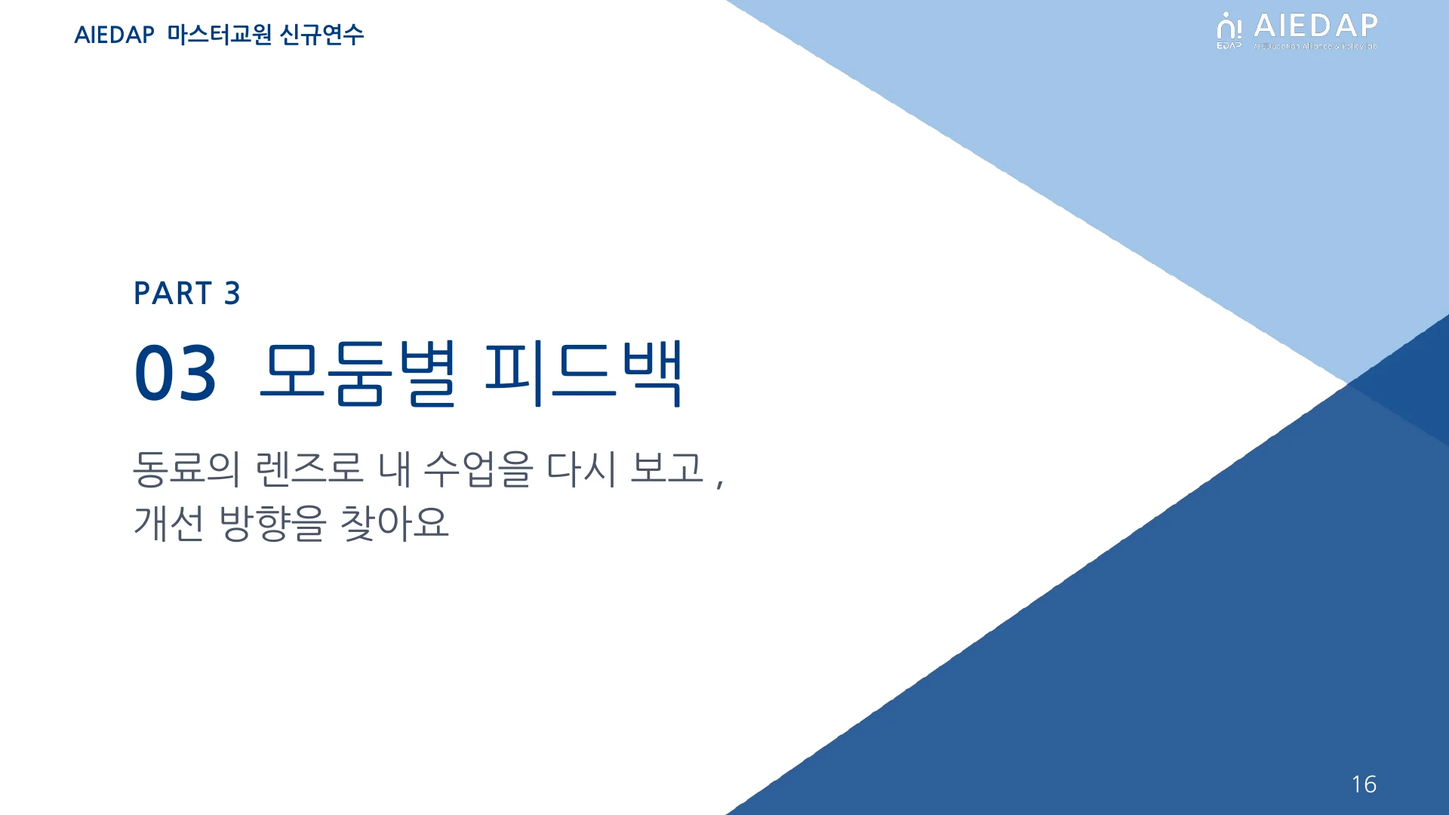
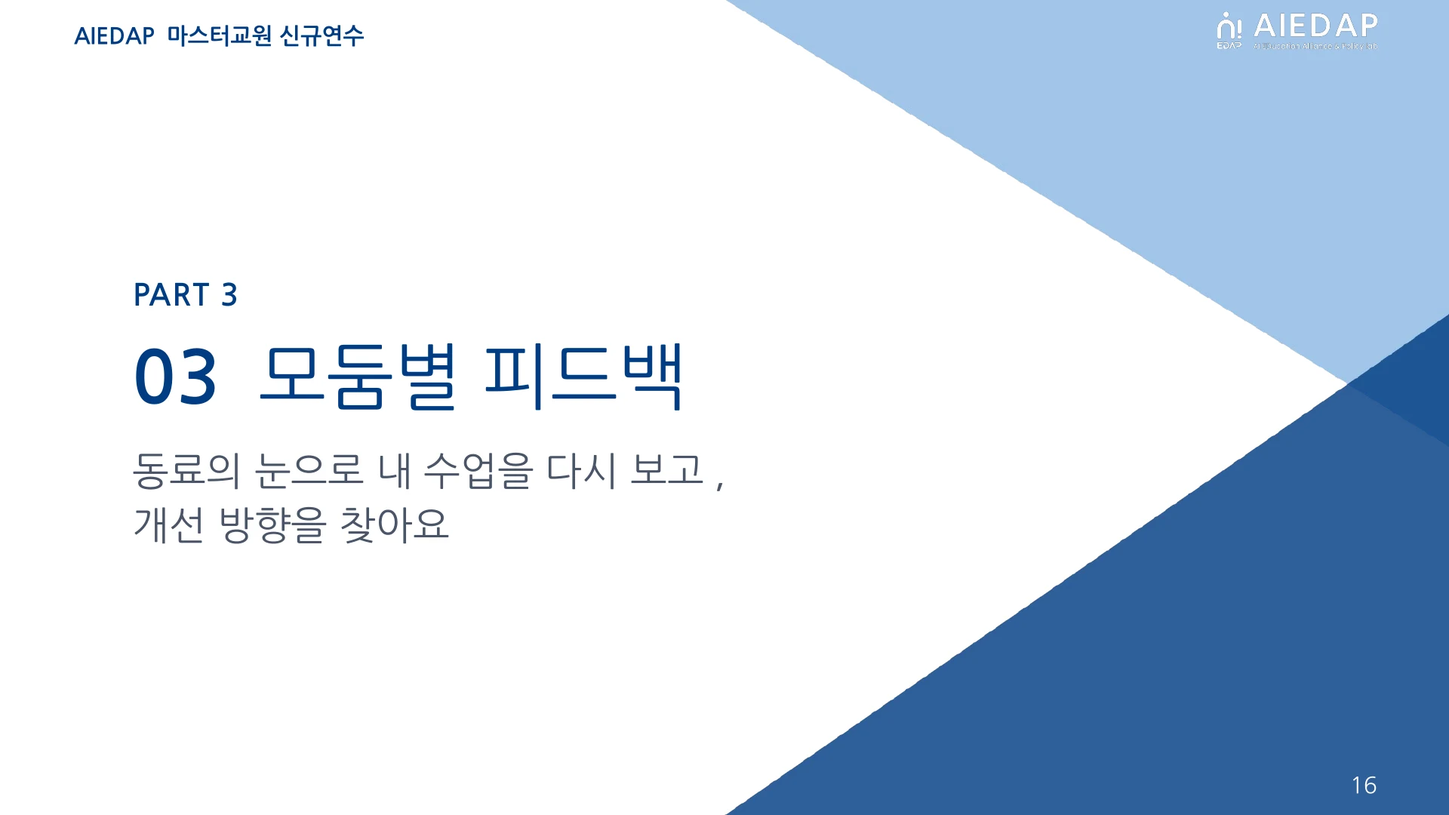
Add files via upload

diff --git a/index.html b/index.html
@@ -334,7 +334,7 @@ header h1{font-size:clamp(18px,2.2vw,22px);font-weight:700;letter-spacing:-.01em
 <script src="universe-client.js"></script>
 <script>
 const TOTAL = 24;
-const NOTES = {"4": {"title": "여는 질문", "html": "<p>내 교실 맨 앞자리에 챗GPT가 떡하니 앉아 있다고 생각해볼까요?</p><p><strong>&quot;챗GPT가 교실에 앉아 있습니다. 무엇을 가르치시겠습니까?&quot;</strong></p><p>실시간 채팅창에 선생님의 의견을 들려주세요. 정답을 찾는 질문이 아니라, 오늘 활동의 문을 여는 질문입니다.</p>"}, "5": {"title": "지금 우리가 하는 교육은 여전히 유효한가?", "html": "<p>지금 우리가 하는 교육은 여전히 유효할까요?</p><p>사진처럼 같은 책상에 앉아 같은 문제를 푸는 모습은 20세기 교육이 거둔 성공의 상징이었습니다.</p><p>그런데 정답을 빠르고 정확하게 찾는 능력은 이제 AI가 가장 잘하는 일이 되었습니다. 그래서 20세기의 성공이 지금은 오히려 문제가 됩니다.</p><p><strong>우리가 AI 시대에 가장 빠르게 도태될 사람을 길러 온 것은 아닌지</strong>, 뼈아프지만 돌아볼 때입니다.</p>"}, "6": {"title": "수업을 바라보는 질문이 바뀝니다", "html": "<p>그렇다면 수업을 바라보는 질문도 달라져야 합니다.</p><p>&#x27;무엇을 알고 있는가&#x27;는 &#x27;<strong>너만의 독창성은 무엇인가</strong>&#x27;로, &#x27;결과물이 완성되었는가&#x27;는 &#x27;<strong>과정과 근거가 보이는가</strong>&#x27;로, &#x27;디지털 도구를 사용할 수 있는가&#x27;를 넘어, 이제는 &#x27;<strong>AI와 함께 협업하여 무엇을 할 것인가</strong>&#x27;를 물어야 합니다.</p><p>AI로 격변하는 시대, 우리 수업이 확인해야 할 것도 함께 옮겨 가고 있습니다.</p>"}, "7": {"title": "그래서 필요한 자세", "html": "<p>특정 지식이나 도구보다 더 중요한 것은 &#x27;자세&#x27;입니다.</p><p><strong>어떤 시대가 오더라도 새로운</strong> <strong>지식을 배우는 것을 기꺼이 즐기는 사람</strong>,</p><p>그리고 <strong>자신이 가진 지식과 정보를 나누고 확장하며 사회와 연대</strong>하는 사람입니다.</p><p>이는 우리가 길러야 할 학생의 모습이자, 바로 우리 교사에게 필요한 모습이기도 합니다.</p>"}, "8": {"title": "좋은 AI 융합수업은 혼자 완성되지 않습니다", "html": "<p><strong>좋은 AI 융합수업은 혼자 완성되지 않습니다.</strong></p><p>좋은 수업은 교사 한 사람의 눈만으로는 다 보기 어렵기 때문입니다.</p><p>그래서 오늘은 서로의 수업을 함께 들여다보겠습니다.</p>"}, "9": {"title": "학습 목표", "html": "<p>이번 연수의 학습 목표는 세 가지입니다.</p><p>첫째, <strong>내 수업 사례와 도움받고 싶은 질문을 동료에게 공유하는 것</strong>입니다</p><p>둘째, <strong>동료 수업의 강점과 고려할 점을 근거와 함께 나누는 것</strong>입니다.</p><p>셋째, <strong>협의를 바탕으로 내 수업의 개선 방향 3가지를 정하는 것</strong>입니다.</p><p>오늘 손에 쥐고 가실 최종 산출물이 바로 이 &#x27;개선 방향 3가지&#x27;이며, 실천 및 성찰 보고서와 이후 Re-design 모듈로 이어집니다.</p>"}, "11": {"title": "PART 2 · 사례 공유하기", "html": "<p>이제 AIEDAP 홈페이지의 공유마당에 내 수업을 올리고, 우리 모둠원들의 수업안을 내려받겠습니다.</p><p>동료의 수업안을 미리 가지고 있어야 모둠 피드백 시간이 훨씬 깊어집니다.</p>"}, "12": {"title": "공유 전, 두 가지를 확인해요", "html": "<p>첫째는 <strong>학생 정보 비식별 처리</strong>입니다. 학생 이름이나 사진, 장애 관련 정보가 지도안에 남아 있지 않은지 반드시 확인해 주시기 바랍니다.</p><p>둘째는 <strong>모든 항목 입력</strong>입니다. 모든 내용이 입력되어 있어야 공유마당에 공유됩니다.</p>"}, "13": {"title": "STEP 1 · 나의 수업 보관함에서 시작해요", "html": "<p>먼저 AIEDAP 홈페이지에 접속합니다.</p><p>왼쪽 메뉴에서 &#x27;<strong>나의 수업 보관함</strong>&#x27;을 열어 주시기 바랍니다.</p>"}, "14": {"title": "STEP 2 · 공유마당에 공유하기", "html": "<p>수업안 상세 화면으로 들어가 아래쪽으로 내려가시면 <strong>&#x27;공유마당에 공유하기&#x27;</strong> 버튼이 있습니다.</p><p>이 버튼을 누르시면 내 수업이 공유마당에 올라갑니다.</p>"}, "15": {"title": "STEP 3 · 모둠원 수업안 내려받기", "html": "<p>공유마당에서 내 자료가 잘 올라갔는지 먼저 확인해 주시기 바랍니다.</p><p>그다음 <strong>모둠원의 이름이나 수업명으로 검색</strong>해서, 모둠원들의 지도안을 모두 내려받아 주십시오.</p>"}, "16": {"title": "PART 3 · 모둠별 피드백", "html": "<p>이제 오늘의 하이라이트, 모둠별 피드백 시간입니다.</p><p>동료의 렌즈를 빌려 내 수업을 다시 보고, 개선 방향을 찾아가 보겠습니다.</p>"}, "17": {"title": "모둠별 사이트로 이동해요", "html": "<p><strong>연수 사이트 메인 화면에서 모둠별 활동 사이트로 이동합니다.</strong></p><p>이동 전에 세 가지를 체크해 주십시오.</p><p><strong>내 수업안을 공유마당에 올렸는지</strong>, <strong>모둠원 수업안을 전부 내려받았는지</strong>, <strong>연수 사이트에서 우리 모둠 페이지를 열었는지</strong>입니다.</p><p>퍼실리테이터 선생님께서는 모든 모둠원이 준비되었는지 확인해 주시고, 아직인 분이 계시면 다운로드를 함께 도와주시기 바랍니다.</p>"}, "18": {"title": "모둠 사이트의 내 페이지에 두 가지를 입력해요", "html": "<p>첫 번째는 <strong>내 수업 한 줄 소개</strong>입니다. 어떤 교과·학년에서 AI를 어떻게 활용했는지, 예를 들어 &quot;생성형 AI로 가설을 세우고 실험으로 검증한 수업&quot;처럼 한 줄로 써 주시면 됩니다.</p><p>두 번째는 <strong>도움받고 싶은 질문</strong>으로, 설계나 실행에서 실제로 고민했던 한 가지를 적습니다.</p>"}, "19": {"title": "내 수업 발표하기", "html": "<p>이제 한 사람씩 돌아가며 내 수업을 발표하겠습니다.</p><p>먼저 교과·학년, AI를 활용한 방식, 주요 활동 등 <strong>수업 개요</strong>를 소개해 주십시오. 이어서 학생 반응이 좋았던 <strong>잘 작동한 장면</strong> 하나를 들려주시기 바랍니다.</p><p>마지막으로 동료에게 묻고 싶은 고민, 즉 <strong>도움받고 싶은 질문</strong> 하나로 발표를 마무리합니다. 시간은 타이머로 안내해 드리니, 핵심 위주로 이야기해 주시기 바랍니다.</p>"}, "20": {"title": "피드백은 이렇게 써요", "html": "<p><strong>배우고 싶은 점</strong>은 내 수업에도 반영하고 싶은 부분으로, &quot;이 도구는 우리 반에서도 효과적일 것 같아요&quot;처럼 씁니다.</p><p><strong>더 알고 싶은 점</strong>은 설명만으로는 그려지지 않는 부분으로, &quot;학생들이 처음에 어려워하지는 않았나요?&quot;처럼 묻습니다.</p><p><strong>적용 아이디어</strong>는 발표자의 질문에 대한 대안과 제안으로, &quot;이렇게 바꿔서 적용해 보면 어떨까요?&quot;처럼 건넵니다.</p><p>부족한 점을 지적하기보다 잘 작동한 요소를 먼저 말해 주시고, 세 가지를 쓴 뒤에는 <strong>6가지 성찰 관점으로도 선생님의 수업을 피드백</strong>해 주시기 바랍니다.</p>"}, "21": {"title": "동료 피드백 작성하기", "html": "<p><strong>6가지 성찰 관점을 근거로 삼아 피드백을 더해 주시기 바랍니다. </strong></p>"}, "22": {"title": "개선 방향 설정하고 나누기", "html": "<p>이제 동료들의 피드백을 바탕으로 <strong>내 수업의 개선 방향 3가지</strong>를 정해 보겠습니다.</p><p>방향을 정하셨다면, 모둠 안에서 한 분씩 돌아가며 내 개선 방향 3가지를 소개해 주십시오.</p><p>발표를 들은 동료들은 응원의 한 마디나 추가 제언을 더해 주시기 바랍니다.</p><p>여기서 정리한 방향은 <strong>실천 및 성찰 보고서와 Re-design 모듈에서 다시 활용</strong>됩니다.</p>"}, "23": {"title": "나의 실천 방향 작성하기", "html": "<p>이제 모인 피드백을 개별로 확인하고, 나의 실천 방향을 AIEDAP에 기록해 두겠습니다.</p><p>홈페이지의 <strong>&#x27;AI 융합수업 성찰해보기&#x27;</strong> 메뉴에서 내 수업을 선택한 뒤, 잘된 점·개선할 점·다음 수업 계획 칸을 채워 주시기 바랍니다.</p><p>이때 <strong>무엇을 바꿀지, 어느 수업 단계에서 적용할지, 어떻게 운영할지, 무엇으로 개선 여부를 확인할지</strong>가 드러나도록 써 주십시오. 이 네 가지가 분명할수록 다음 수업에서 정말로 실천할 수 있는 계획이 됩니다.</p>"}, "24": {"title": "수고하셨습니다", "html": "<p><strong>공자는 『논어』에서 &quot;배우기만 하고 생각하지 않으면 얻는 것이 없고, 생각하기만 하고 배우지 않으면 위태롭다&quot;고 말했습니다.</strong> 오늘 우리는 동료의 수업에서 배우고, 그 배움을 내 수업에 비추어 생각해 보았습니다.</p><p>오늘 함께한 귀한 시간이,  각자 선생님들의 교실에서 성장의 첫걸음이 되기를 응원하며 마치겠습니다. 감사합니다.</p>"}};
+const NOTES = {"4": {"title": "여는 질문", "html": "<p>내 교실 맨 앞자리에 챗GPT가 떡하니 앉아 있다고 생각해볼까요?</p><p><strong>&quot;챗GPT가 교실에 앉아 있습니다. 무엇을 가르치시겠습니까?&quot;</strong></p><p>실시간 채팅창에 선생님의 의견을 들려주세요. 정답을 찾는 질문이 아니라, 오늘 활동의 문을 여는 질문입니다.</p>"}, "5": {"title": "지금 우리가 하는 교육은 여전히 유효한가?", "html": "<p>지금 우리가 하는 교육은 여전히 유효할까요?</p><p>사진처럼 같은 책상에 앉아 같은 문제를 푸는 모습은 20세기 교육이 거둔 성공의 상징이었습니다.</p><p>그런데 정답을 빠르고 정확하게 찾는 능력은 이제 AI가 가장 잘하는 일이 되었습니다. 그래서 20세기의 성공이 지금은 오히려 문제가 됩니다.</p><p><strong>우리가 AI 시대에 가장 빠르게 도태될 사람을 길러 온 것은 아닌지</strong>, 뼈아프지만 돌아볼 때입니다.</p>"}, "6": {"title": "수업을 바라보는 질문이 바뀝니다", "html": "<p>그렇다면 수업을 바라보는 질문도 달라져야 합니다.</p><p>&#x27;무엇을 알고 있는가&#x27;는 &#x27;<strong>너만의 독창성은 무엇인가</strong>&#x27;로, &#x27;결과물이 완성되었는가&#x27;는 &#x27;<strong>과정과 근거가 보이는가</strong>&#x27;로, &#x27;디지털 도구를 사용할 수 있는가&#x27;를 넘어, 이제는 &#x27;<strong>AI와 함께 협업하여 무엇을 할 것인가</strong>&#x27;를 물어야 합니다.</p><p>AI로 격변하는 시대, 우리 수업이 확인해야 할 것도 함께 옮겨 가고 있습니다.</p>"}, "7": {"title": "그래서 필요한 자세", "html": "<p>특정 지식이나 도구보다 더 중요한 것은 &#x27;자세&#x27;입니다.</p><p><strong>어떤 시대가 오더라도 새로운</strong> <strong>지식을 배우는 것을 기꺼이 즐기는 사람</strong>,</p><p>그리고 <strong>자신이 가진 지식과 정보를 나누고 확장하며 사회와 연대</strong>하는 사람입니다.</p><p>이는 우리가 길러야 할 학생의 모습이자, 바로 우리 교사에게 필요한 모습이기도 합니다.</p>"}, "8": {"title": "좋은 AI 융합수업은 혼자 완성되지 않습니다", "html": "<p><strong>좋은 AI 융합수업은 혼자 완성되지 않습니다.</strong></p><p>좋은 수업은 교사 한 사람의 눈만으로는 다 보기 어렵기 때문입니다.</p><p>그래서 오늘은 서로의 수업을 함께 들여다보겠습니다.</p>"}, "9": {"title": "학습 목표", "html": "<p>이번 연수의 학습 목표는 세 가지입니다.</p><p>첫째, <strong>내 수업 사례와 도움받고 싶은 질문을 동료에게 공유하는 것</strong>입니다</p><p>둘째, <strong>동료 수업의 강점과 고려할 점을 근거와 함께 나누는 것</strong>입니다.</p><p>셋째, <strong>협의를 바탕으로 내 수업의 개선 방향 3가지를 정하는 것</strong>입니다.</p><p>오늘 손에 쥐고 가실 최종 산출물이 바로 이 &#x27;개선 방향 3가지&#x27;이며, 실천 및 성찰 보고서와 이후 Re-design 모듈로 이어집니다.</p>"}, "11": {"title": "PART 2 · 사례 공유하기", "html": "<p>이제 AIEDAP 홈페이지의 공유마당에 내 수업을 올리고, 우리 모둠원들의 수업안을 내려받겠습니다.</p><p>동료의 수업안을 미리 가지고 있어야 모둠 피드백 시간이 훨씬 깊어집니다.</p>"}, "12": {"title": "공유 전, 두 가지를 확인해요", "html": "<p>첫째는 <strong>학생 정보 비식별 처리</strong>입니다. 학생 이름이나 사진, 장애 관련 정보가 지도안에 남아 있지 않은지 반드시 확인해 주시기 바랍니다.</p><p>둘째는 <strong>모든 항목 입력</strong>입니다. 모든 내용이 입력되어 있어야 공유마당에 공유됩니다.</p>"}, "13": {"title": "STEP 1 · 나의 수업 보관함에서 시작해요", "html": "<p>먼저 AIEDAP 홈페이지에 접속합니다.</p><p>왼쪽 메뉴에서 &#x27;<strong>나의 수업 보관함</strong>&#x27;을 열어 주시기 바랍니다.</p>"}, "14": {"title": "STEP 2 · 공유마당에 공유하기", "html": "<p>수업안 상세 화면으로 들어가 아래쪽으로 내려가시면 <strong>&#x27;공유마당에 공유하기&#x27;</strong> 버튼이 있습니다.</p><p>이 버튼을 누르시면 내 수업이 공유마당에 올라갑니다.</p>"}, "15": {"title": "STEP 3 · 모둠원 수업안 내려받기", "html": "<p>공유마당에서 내 자료가 잘 올라갔는지 먼저 확인해 주시기 바랍니다.</p><p>그다음 <strong>모둠원의 이름이나 수업명으로 검색</strong>해서, 모둠원들의 지도안을 모두 내려받아 주십시오.</p>"}, "16": {"title": "PART 3 · 모둠별 피드백", "html": "<p>이제 오늘의 하이라이트, 모둠별 피드백 시간입니다.</p><p>동료의 눈으로 내 수업을 다시 보고, 개선 방향을 찾아가 보겠습니다.</p>"}, "17": {"title": "모둠별 사이트로 이동해요", "html": "<p><strong>연수 사이트 메인 화면에서 모둠별 활동 사이트로 이동합니다.</strong></p><p>이동 전에 세 가지를 체크해 주십시오.</p><p><strong>내 수업안을 공유마당에 올렸는지</strong>, <strong>모둠원 수업안을 전부 내려받았는지</strong>, <strong>연수 사이트에서 우리 모둠 페이지를 열었는지</strong>입니다.</p><p>퍼실리테이터 선생님께서는 모든 모둠원이 준비되었는지 확인해 주시고, 아직인 분이 계시면 다운로드를 함께 도와주시기 바랍니다.</p>"}, "18": {"title": "모둠 사이트의 내 페이지에 두 가지를 입력해요", "html": "<p>첫 번째는 <strong>내 수업 한 줄 소개</strong>입니다. 어떤 교과·학년에서 AI를 어떻게 활용했는지, 예를 들어 &quot;생성형 AI로 가설을 세우고 실험으로 검증한 수업&quot;처럼 한 줄로 써 주시면 됩니다.</p><p>두 번째는 <strong>도움받고 싶은 질문</strong>으로, 설계나 실행에서 실제로 고민했던 한 가지를 적습니다.</p>"}, "19": {"title": "내 수업 발표하기", "html": "<p>이제 한 사람씩 돌아가며 내 수업을 발표하겠습니다.</p><p>먼저 교과·학년, AI를 활용한 방식, 주요 활동 등 <strong>수업 개요</strong>를 소개해 주십시오. 이어서 학생 반응이 좋았던 <strong>잘 작동한 장면</strong> 하나를 들려주시기 바랍니다.</p><p>마지막으로 동료에게 묻고 싶은 고민, 즉 <strong>도움받고 싶은 질문</strong> 하나로 발표를 마무리합니다. 시간은 타이머로 안내해 드리니, 핵심 위주로 이야기해 주시기 바랍니다.</p>"}, "20": {"title": "피드백은 이렇게 써요", "html": "<p><strong>배우고 싶은 점</strong>은 내 수업에도 반영하고 싶은 부분으로, &quot;이 도구는 우리 반에서도 효과적일 것 같아요&quot;처럼 씁니다.</p><p><strong>더 알고 싶은 점</strong>은 설명만으로는 그려지지 않는 부분으로, &quot;학생들이 처음에 어려워하지는 않았나요?&quot;처럼 묻습니다.</p><p><strong>적용 아이디어</strong>는 발표자의 질문에 대한 대안과 제안으로, &quot;이렇게 바꿔서 적용해 보면 어떨까요?&quot;처럼 건넵니다.</p><p>부족한 점을 지적하기보다 <strong>잘 작동한 요소를 먼저</strong> 말해 주시기 바랍니다.</p>"}, "21": {"title": "동료 피드백 작성하기", "html": "<p>발표를 들으면서 모둠 사이트에 <strong>배우고 싶은 점, 더 알고 싶은 점, 적용 아이디어</strong>를 남겨 주시기 바랍니다. 피드백은 이름 없이 익명으로 남습니다.</p>"}, "22": {"title": "개선 방향 설정하고 나누기", "html": "<p>이제 동료들의 피드백을 바탕으로 <strong>내 수업의 개선 방향 3가지</strong>를 정해 보겠습니다.</p><p>방향을 정하셨다면, 모둠 안에서 한 분씩 돌아가며 내 개선 방향 3가지를 소개해 주십시오.</p><p>발표를 들은 동료들은 응원의 한 마디나 추가 제언을 더해 주시기 바랍니다.</p><p>여기서 정리한 방향은 <strong>실천 및 성찰 보고서와 Re-design 모듈에서 다시 활용</strong>됩니다.</p>"}, "23": {"title": "나의 실천 방향 작성하기", "html": "<p>이제 모인 피드백을 개별로 확인하고, 나의 실천 방향을 AIEDAP에 기록해 두겠습니다.</p><p>홈페이지의 <strong>&#x27;AI 융합수업 성찰해보기&#x27;</strong> 메뉴에서 내 수업을 선택한 뒤, 잘된 점·개선할 점·다음 수업 계획 칸을 채워 주시기 바랍니다.</p><p>이때 <strong>무엇을 바꿀지, 어느 수업 단계에서 적용할지, 어떻게 운영할지, 무엇으로 개선 여부를 확인할지</strong>가 드러나도록 써 주십시오. 이 네 가지가 분명할수록 다음 수업에서 정말로 실천할 수 있는 계획이 됩니다.</p>"}, "24": {"title": "수고하셨습니다", "html": "<p><strong>공자는 『논어』에서 &quot;배우기만 하고 생각하지 않으면 얻는 것이 없고, 생각하기만 하고 배우지 않으면 위태롭다&quot;고 말했습니다.</strong> 오늘 우리는 동료의 수업에서 배우고, 그 배움을 내 수업에 비추어 생각해 보았습니다.</p><p>오늘 함께한 귀한 시간이,  각자 선생님들의 교실에서 성장의 첫걸음이 되기를 응원하며 마치겠습니다. 감사합니다.</p>"}};
 const CFG = window.FIREBASE_CONFIG || null;
 
 const $ = id => document.getElementById(id);

diff --git a/board/index.html b/board/index.html
@@ -139,7 +139,6 @@ textarea:focus{background:var(--surface)}
 .lens-fab{position:fixed;right:20px;bottom:20px;z-index:9;display:inline-flex;align-items:center;gap:8px;min-height:52px;padding:0 20px;border:0;border-radius:999px;background:var(--accent);color:#fff;font-weight:700;font-size:15px;box-shadow:0 8px 24px rgba(120,50,20,.35);cursor:pointer}
 .lens-fab:hover{filter:brightness(1.07)}
 .lens-fab:focus-visible{outline:3px solid var(--accent-soft);outline-offset:3px}
-body{padding-bottom:84px}
 .lens-guide{width:min(760px,100%);max-height:calc(100dvh - 32px);overflow:auto}
 .lens-guide-grid{display:grid;grid-template-columns:repeat(2,minmax(0,1fr));gap:10px}
 .lens-guide-item{border:1px solid var(--line);border-radius:12px;padding:12px 14px;background:var(--surface-2)}
@@ -176,16 +175,6 @@ body{padding-bottom:84px}
     </div>
     <div class="export-msg" id="exportMsg" role="status"></div>
   </section>
-</div>
-
-<button type="button" class="lens-fab" id="lensFab" aria-haspopup="dialog">🔍 6가지 렌즈가 뭐였더라?</button>
-
-<div class="modal" id="lensModal" hidden>
-  <div class="modal-box lens-guide" role="dialog" aria-modal="true" aria-labelledby="lensTitle">
-    <div class="lens-guide-head"><h2 id="lensTitle">6가지 렌즈, 다시 보기</h2><button type="button" class="btn ghost" id="lensClose">닫기</button></div>
-    <p class="muted" style="margin:0;font-size:14px">렌즈마다 던지는 질문과 살펴볼 점입니다. 피드백할 때는 이 중 <b>1개만</b> 골라 주세요.</p>
-    <div class="lens-guide-grid" id="lensGuide"></div>
-  </div>
 </div>
 
 <div class="modal" id="adminModal" hidden>
@@ -569,39 +558,11 @@ function buildPage() {
     h('div', { class: 'panel-title' }, h('h3', { text: '동료 피드백' }), h('p', null, '피드백은 이름 없이 익명으로 남습니다. 편하게 의견을 나눠 주세요. ', own ? null : h('button', { type: 'button', class: 'link-btn', text: '↻ 새로 불러오기', onclick: () => refreshFb && refreshFb() }))),
     h('div', { class: 'peer-grid' }, peerCols));
 
-  lensUI = [];
-  const lensCards = LENS.map(l => {
-    const list = h('ul', { class: 'list', id: 'list-' + l.k });
-    const card = h('div', { class: 'col lens' }, h('h4', { text: l.e + ' ' + l.t }), h('p', { class: 'lens-q', text: '“' + l.q + '”' }), list);
-    const c = composer(l.k, () => { c.el.hidden = true; syncLensUI(); });
-    c.el.hidden = true;
-    const cancel = h('button', { type: 'button', class: 'btn ghost', text: '취소', onclick: () => { c.el.hidden = true; syncLensUI(); } });
-    c.el.querySelector('.row').append(cancel);
-    const add = h('button', { type: 'button', class: 'add-btn', text: own ? '+ 이 렌즈로 내 수업 돌아보기' : '+ 이 렌즈로 피드백 남기기', onclick: () => {
-      if (myLensFb()) { syncLensUI(); return; }
-      for (const u of lensUI) u.c.el.hidden = true;
-      c.el.hidden = false; syncLensUI(); c.ta.focus();
-    } });
-    lensUI.push({ add, c });
-    card.append(add, c.el);
-    return card;
-  });
-  const lens = h('section', { class: 'panel', 'aria-label': '관점별 피드백' },
-    h('div', { class: 'panel-title' }, h('h3', { text: '관점별 피드백' }),
-      h('p', null, own ? '도움이 된 피드백에 체크하면 아래 모아보기에 정리됩니다. ' : '수업자가 체크한 피드백은 표시가 됩니다. ',
-        h('button', { type: 'button', class: 'link-btn', text: '6가지 렌즈가 뭐였더라?', onclick: openLensGuide }))),
-    h('p', { class: 'lens-rule', id: 'lensRule' }),
-    h('div', { class: 'lens-grid' }, lensCards));
-
-  const picked = h('section', { class: 'panel', 'aria-label': '체크한 피드백 모아보기' },
-    h('div', { class: 'panel-title' }, h('h3', { text: '체크한 피드백 모아보기' }), h('p', { id: 'pickedCount' })),
-    h('div', { id: 'picked' }));
-
   const improve = h('section', { class: 'panel', 'aria-label': '나의 수업 개선 방향' },
     h('div', { class: 'panel-title' }, h('h3', { text: '나의 수업 개선 방향' }), h('p', { text: own ? '받은 피드백을 바탕으로 개선할 방향 3가지를 적어 주세요.' : '수업자가 정리한 개선 방향입니다.' })),
     h('div', { class: 'improve' }, [0, 1, 2].map(i => ownerField('improve', '개선 방향 ' + (i + 1), '피드백을 바탕으로 바꿔 볼 점을 적어 주세요.', i))));
 
-  main.replaceChildren(h('div', { class: 'page' }, head, share, peer, lens, picked, improve));
+  main.replaceChildren(h('div', { class: 'page' }, head, share, peer, improve));
   renderFeedback();
 }
 
@@ -635,20 +596,6 @@ function renderFeedback() {
     const items = S.feedback.filter(f => f.type === p.k);
     ul.replaceChildren(...(items.length ? items.map(f => itemEl(f, false)) : [h('li', { class: 'empty-list', text: '아직 남긴 내용이 없습니다.' })]));
   }
-  for (const l of LENS) {
-    const ul = $('list-' + l.k); if (!ul) continue;
-    const items = S.feedback.filter(f => f.type === l.k);
-    ul.replaceChildren(...(items.length ? items.map(f => itemEl(f, true)) : [h('li', { class: 'empty-list', text: '아직 피드백이 없습니다.' })]));
-  }
-  syncLensUI();
-  const box = $('picked'); if (!box) return;
-  const groups = LENS.map(l => ({ l, items: S.feedback.filter(f => f.type === l.k && f.checked) })).filter(g => g.items.length);
-  const n = groups.reduce((a, g) => a + g.items.length, 0);
-  $('pickedCount').textContent = n ? `${n}개` : '';
-  if (!n) { box.replaceChildren(h('div', { class: 'empty-list', text: isOwner() ? '관점별 피드백에서 도움이 된 내용에 체크해 보세요.' : '수업자가 아직 체크한 피드백이 없습니다.' })); return; }
-  box.replaceChildren(h('div', { class: 'picked-groups' }, groups.map(g =>
-    h('div', { class: 'picked-group' }, h('h4', { text: g.l.e + ' ' + g.l.t }),
-      h('ul', { class: 'list' }, g.items.map(f => h('li', { class: 'item' }, h('div', { class: 'body' }, h('div', { class: 'text', text: f.text })))))))));
 }
 
 /* ---------- 엑셀 ---------- */
@@ -713,15 +660,17 @@ function SheetBuilder(widths) {
 }
 const stamp = ms => { try { return new Date(ms).toLocaleString('ko-KR', { month: 'numeric', day: 'numeric', hour: 'numeric', minute: '2-digit' }); } catch (e) { return ''; } };
 
+const peerOnly = fb => fb.filter(f => PEER.some(p => p.k === f.type));
+
 /* 선생님 한 명의 탭: 구분별로 제목 줄 → 머리글 → 피드백이 차례로 쌓임 */
 function sheetRows(t, fb) {
-  const W = [6, 24, 52, 8];                 // 번호 | 내용(2칸) | 체크 — 피드백은 익명
+  const W = [6, 24, 52, 8];                 // 번호 | 내용 — 피드백은 익명
   const sb = SheetBuilder(W);
-  const sorted = [...fb].sort((a, b) => (a.createdAt || 0) - (b.createdAt || 0));
+  const sorted = [...peerOnly(fb)].sort((a, b) => (a.createdAt || 0) - (b.createdAt || 0));
   const of = k => sorted.filter(f => f.type === k);
 
   sb.row([{ v: disp(t.name) + '의 수업', s: XS.title, span: 5 }], 28);
-  sb.row([{ v: `${GROUP}모둠 · 받은 피드백 ${fb.length}개 · 체크 ${fb.filter(f => f.checked).length}개 · ${stamp(Date.now())} 저장`, s: XS.meta, span: 5 }], 18);
+  sb.row([{ v: `${GROUP}모둠 · 받은 피드백 ${peerOnly(fb).length}개 · ${stamp(Date.now())} 저장`, s: XS.meta, span: 5 }], 18);
   sb.blank();
 
   sb.row([{ v: '수업 공유', s: XS.sec, span: 5 }], 24);
@@ -739,26 +688,6 @@ function sheetRows(t, fb) {
   }
   sb.blank();
 
-  sb.row([{ v: '관점별 피드백', s: XS.sec, span: 5 }], 24);
-  for (const l of LENS) {
-    const items = of(l.k), nChk = items.filter(f => f.checked).length;
-    sb.row([{ v: `${l.e} ${l.t}  ·  “${l.q}”  (${items.length}개, 체크 ${nChk}개)`, s: XS.sub, span: 5 }]);
-    sb.row([{ v: '번호', s: XS.head }, { v: '내용', s: XS.head, span: 2 }, { v: '체크', s: XS.head }], 20);
-    if (!items.length) sb.row([{ v: '아직 피드백이 없습니다.', s: XS.empty, span: 5 }], 20);
-    items.forEach((f, i) => sb.row([{ v: i + 1, s: XS.num }, { v: f.text, s: XS.cell, span: 2 }, { v: f.checked ? '✔' : '', s: XS.check }]));
-  }
-  sb.blank();
-
-  const picked = LENS.map(l => ({ l, items: of(l.k).filter(f => f.checked) })).filter(g => g.items.length);
-  const nPicked = picked.reduce((a, g) => a + g.items.length, 0);
-  sb.row([{ v: `체크한 피드백 모아보기 (${nPicked}개)`, s: XS.sec, span: 5 }], 24);
-  if (!nPicked) sb.row([{ v: '체크한 피드백이 없습니다.', s: XS.empty, span: 5 }], 20);
-  for (const g of picked) {
-    sb.row([{ v: `${g.l.e} ${g.l.t}`, s: XS.sub, span: 5 }], 20);
-    g.items.forEach((f, i) => sb.row([{ v: i + 1, s: XS.num }, { v: f.text, s: XS.cell, span: 3 }]));
-  }
-  sb.blank();
-
   sb.row([{ v: '나의 수업 개선 방향', s: XS.sec, span: 5 }], 24);
   (t.improve || ['', '', '']).forEach((v, i) => sb.row([{ v: '개선 방향 ' + (i + 1), s: XS.label, span: 2 }, { v: v || '(작성하지 않음)', s: v ? XS.cell : XS.empty, span: 3 }]));
   return sb.toSheet();
@@ -766,31 +695,29 @@ function sheetRows(t, fb) {
 
 /* 모둠 요약 탭: 한 사람당 한 줄, 구분별 피드백 수 */
 function summarySheet(ts, all) {
-  const W = [14, 34, 34, 9, 9, 9, 9, 9, 9, 9, 9, 9, 8, 8, 30, 30, 30];
+  const W = [14, 34, 34, 11, 11, 11, 10, 30, 30, 30];
   const sb = SheetBuilder(W);
   sb.row([{ v: `${GROUP}모둠 전체 피드백 요약`, s: XS.title, span: W.length }], 28);
   sb.row([{ v: `참여 ${ts.length}명 · ${stamp(Date.now())} 저장 · 선생님별 자세한 내용은 이름 탭에 있습니다.`, s: XS.meta, span: W.length }], 18);
   sb.blank();
   sb.row([
     { v: '선생님', s: XS.head }, { v: '수업 공유', s: XS.head, span: 2 },
-    { v: '동료 피드백 (개)', s: XS.head, span: 3 }, { v: '관점별 피드백 (개)', s: XS.head, span: 6 },
-    { v: '합계', s: XS.head, span: 2 }, { v: '나의 수업 개선 방향', s: XS.head, span: 3 }
+    { v: '동료 피드백 (개)', s: XS.head, span: 3 }, { v: '합계', s: XS.head }, { v: '나의 수업 개선 방향', s: XS.head, span: 3 }
   ], 22);
   sb.row([
     { v: '', s: XS.head }, { v: '수업 한 줄 소개', s: XS.head }, { v: '동료에게 도움받고 싶은 질문', s: XS.head },
     ...PEER.map(p => ({ v: p.t, s: XS.head })),
-    ...LENS.map(l => ({ v: l.e + ' ' + l.t, s: XS.head })),
-    { v: '받은 피드백', s: XS.head }, { v: '체크', s: XS.head },
+    { v: '받은 피드백', s: XS.head },
     { v: '개선 방향 1', s: XS.head }, { v: '개선 방향 2', s: XS.head }, { v: '개선 방향 3', s: XS.head }
   ], 44);
   for (const t of ts) {
-    const fb = all[t.id] || [];
+    const fb = peerOnly(all[t.id] || []);
     const cnt = k => fb.filter(f => f.type === k).length;
     const imp = t.improve || ['', '', ''];
     sb.row([
       { v: disp(t.name), s: XS.label }, { v: t.intro || '', s: XS.cell }, { v: t.question || '', s: XS.cell },
-      ...PEER.map(p => ({ v: cnt(p.k), s: XS.center })), ...LENS.map(l => ({ v: cnt(l.k), s: XS.center })),
-      { v: fb.length, s: XS.center }, { v: fb.filter(f => f.checked).length, s: XS.check },
+      ...PEER.map(p => ({ v: cnt(p.k), s: XS.center })),
+      { v: fb.length, s: XS.center },
       { v: imp[0] || '', s: XS.cell }, { v: imp[1] || '', s: XS.cell }, { v: imp[2] || '', s: XS.cell }
     ]);
   }
@@ -836,10 +763,6 @@ $('adminBtn').addEventListener('click', () => {
   $('adminModal').hidden = false; $('adminErr').textContent = ''; $('adminPw').value = ''; setTimeout(() => $('adminPw').focus(), 30);
 });
 $('adminCancel').addEventListener('click', () => { $('adminModal').hidden = true; });
-$('lensFab').addEventListener('click', openLensGuide);
-$('lensClose').addEventListener('click', closeLensGuide);
-$('lensModal').addEventListener('click', e => { if (e.target === $('lensModal')) closeLensGuide(); });
-document.addEventListener('keydown', e => { if (e.key === 'Escape' && !$('lensModal').hidden) closeLensGuide(); });
 $('adminForm').addEventListener('submit', async e => {
   e.preventDefault();
   try { await S.store.adminLogin($('adminPw').value); $('adminModal').hidden = true; }

diff --git a/universe/index.html b/universe/index.html
@@ -33,6 +33,7 @@ canvas{display:block}
 .sound{display:flex;align-items:center;gap:8px;min-height:40px;padding:0 6px 0 4px;border-radius:999px;border:1px solid var(--line);background:var(--panel);backdrop-filter:blur(6px)}
 .sound button{border:0;background:transparent;min-height:36px;padding:0 8px;font-size:18px}
 .sound input{width:110px;accent-color:var(--accent);cursor:pointer}
+.taphint{left:50%;top:22px;transform:translateX(-50%);background:var(--panel);border:1px solid var(--accent);color:var(--fg);border-radius:999px;padding:8px 16px;font-size:14px;backdrop-filter:blur(6px);pointer-events:none}
 .sound output{font-size:12px;color:var(--muted);min-width:34px;font-variant-numeric:tabular-nums}
 .feed{top:22px;right:22px;display:flex;flex-direction:column;gap:6px;align-items:flex-end;max-width:min(380px,40vw)}
 .feed div{background:var(--panel);border:1px solid var(--line);border-radius:999px;padding:6px 14px;font-size:13px;animation:fade 6s forwards;backdrop-filter:blur(6px)}
@@ -80,6 +81,7 @@ canvas{display:block}
   </div>
 </div>
 <audio id="bgm" src="bgm.mp3" preload="auto" loop></audio>
+<div class="hud taphint" id="tapHint" hidden>🎵 화면을 한 번 누르면 배경음악이 시작돼요</div>
 
 <div class="modal" id="adminModal" hidden>
   <form class="mbox" id="adminForm">
@@ -365,7 +367,7 @@ function frame(now) {
 requestAnimationFrame(frame);
 
 /* ---------- 버튼 ---------- */
-$('replayBtn').onclick = () => { if (!replaying && wantedVisits().length) startMusic(); replay(); };
+$('replayBtn').onclick = () => { startMusic(); replay(); };
 
 /* ---------- 배경음악: 다시 보기와 함께 처음부터 시작하고, 끝난 뒤에도 계속 흐릅니다(반복 재생) ---------- */
 const bgm = $('bgm'); let fadeT = null;
@@ -378,18 +380,25 @@ function applyVol() {
   $('muteBtn').setAttribute('aria-pressed', muted); $('muteBtn').setAttribute('aria-label', muted ? '음소거 해제' : '음소거');
   if (!fadeT) bgm.volume = muted ? 0 : vol / 100;
 }
+function fadeIn() {
+  clearInterval(fadeT); const target = () => muted ? 0 : vol / 100; let k = 0;
+  fadeT = setInterval(() => { k++; bgm.volume = Math.min(target(), target() * k / 25); if (k >= 25) { clearInterval(fadeT); fadeT = null; applyVol(); } }, 100);
+}
+/* 화면을 열자마자 재생합니다. 브라우저가 자동 재생을 막으면, 화면을 처음 누르거나 키를 누르는 순간 바로 시작합니다. */
 function startMusic() {
-  clearInterval(fadeT); fadeT = null;
-  bgm.currentTime = 0; bgm.volume = 0;
-  bgm.play().then(() => {
-    const target = () => muted ? 0 : vol / 100; let k = 0;
-    fadeT = setInterval(() => { k++; bgm.volume = Math.min(target(), target() * k / 20); if (k >= 20) { clearInterval(fadeT); fadeT = null; applyVol(); } }, 100);
-  }).catch(() => banner('배경음악을 재생하지 못했습니다. 화면을 한 번 누른 뒤 다시 시도해 주세요.'));
+  if (!bgm.getAttribute('src') || !bgm.paused) return;
+  bgm.volume = 0;
+  bgm.play().then(() => { $('tapHint').hidden = true; fadeIn(); }).catch(() => {
+    $('tapHint').hidden = false;
+    const go = () => { removeEventListener('pointerdown', go, true); removeEventListener('keydown', go, true); startMusic(); };
+    addEventListener('pointerdown', go, true); addEventListener('keydown', go, true);
+  });
 }
 $('volRange').addEventListener('input', e => { vol = +e.target.value; if (vol > 0 && muted) muted = false; lsS('uni-vol', vol); lsS('uni-mute', muted ? '1' : '0'); applyVol(); });
 $('muteBtn').onclick = () => { muted = !muted; lsS('uni-mute', muted ? '1' : '0'); applyVol(); };
 addEventListener('keydown', e => { if (!e.target.closest('input,textarea') && (e.key === 'm' || e.key === 'M')) $('muteBtn').onclick(); });
 applyVol();
+if (!params.has('snap')) startMusic();
 $('namesBtn').onclick = () => { showNames = !showNames; $('namesBtn').setAttribute('aria-pressed', showNames); };
 $('rotateBtn').onclick = () => { controls.autoRotate = !controls.autoRotate; $('rotateBtn').setAttribute('aria-pressed', controls.autoRotate); };
 function full() { if (document.fullscreenElement) document.exitFullscreen(); else document.documentElement.requestFullscreen?.().catch(() => {}); }
@@ -397,7 +406,7 @@ $('fullBtn').onclick = full;
 addEventListener('keydown', e => {
   if (e.target.closest('input,textarea')) return;
   if (e.key === 'f' || e.key === 'F') full();
-  if (e.key === ' ') { e.preventDefault(); if (!replaying && wantedVisits().length) startMusic(); replay(); }
+  if (e.key === ' ') { e.preventDefault(); startMusic(); replay(); }
 });
 
 /* ---------- 데이터 연결 ---------- */
